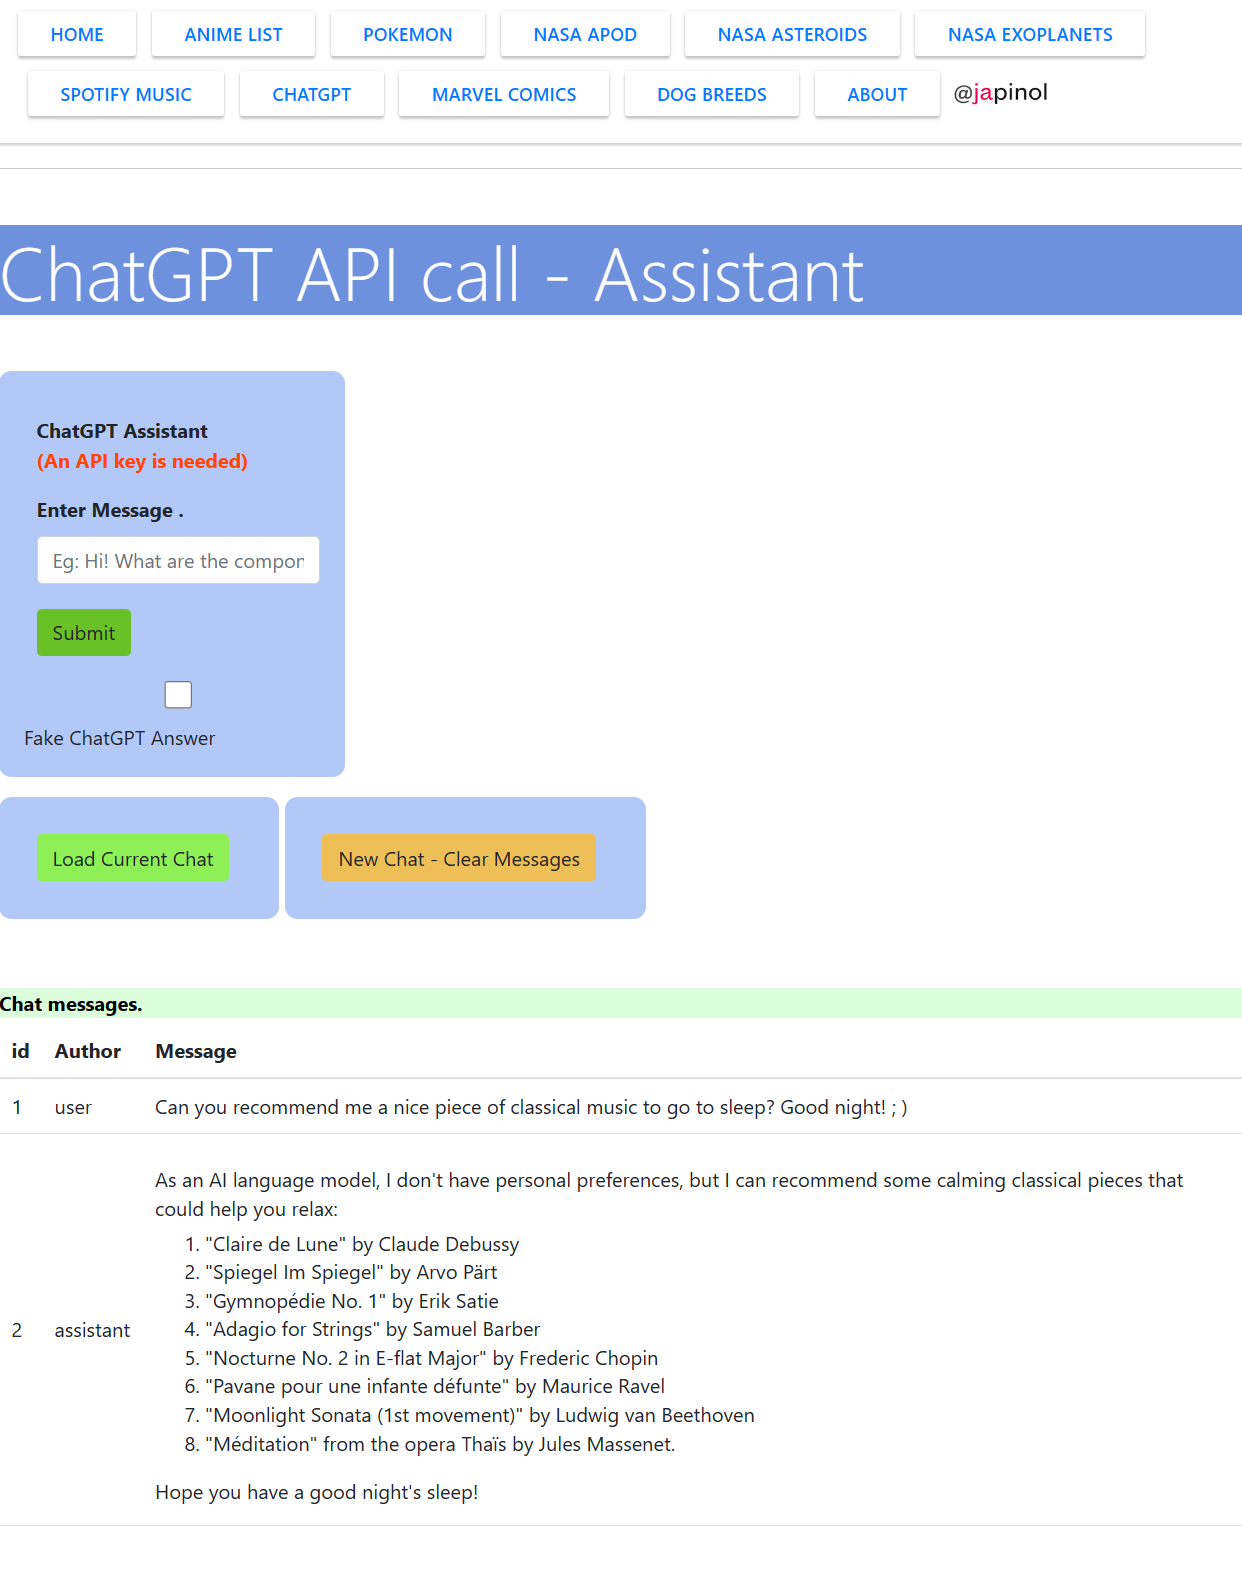
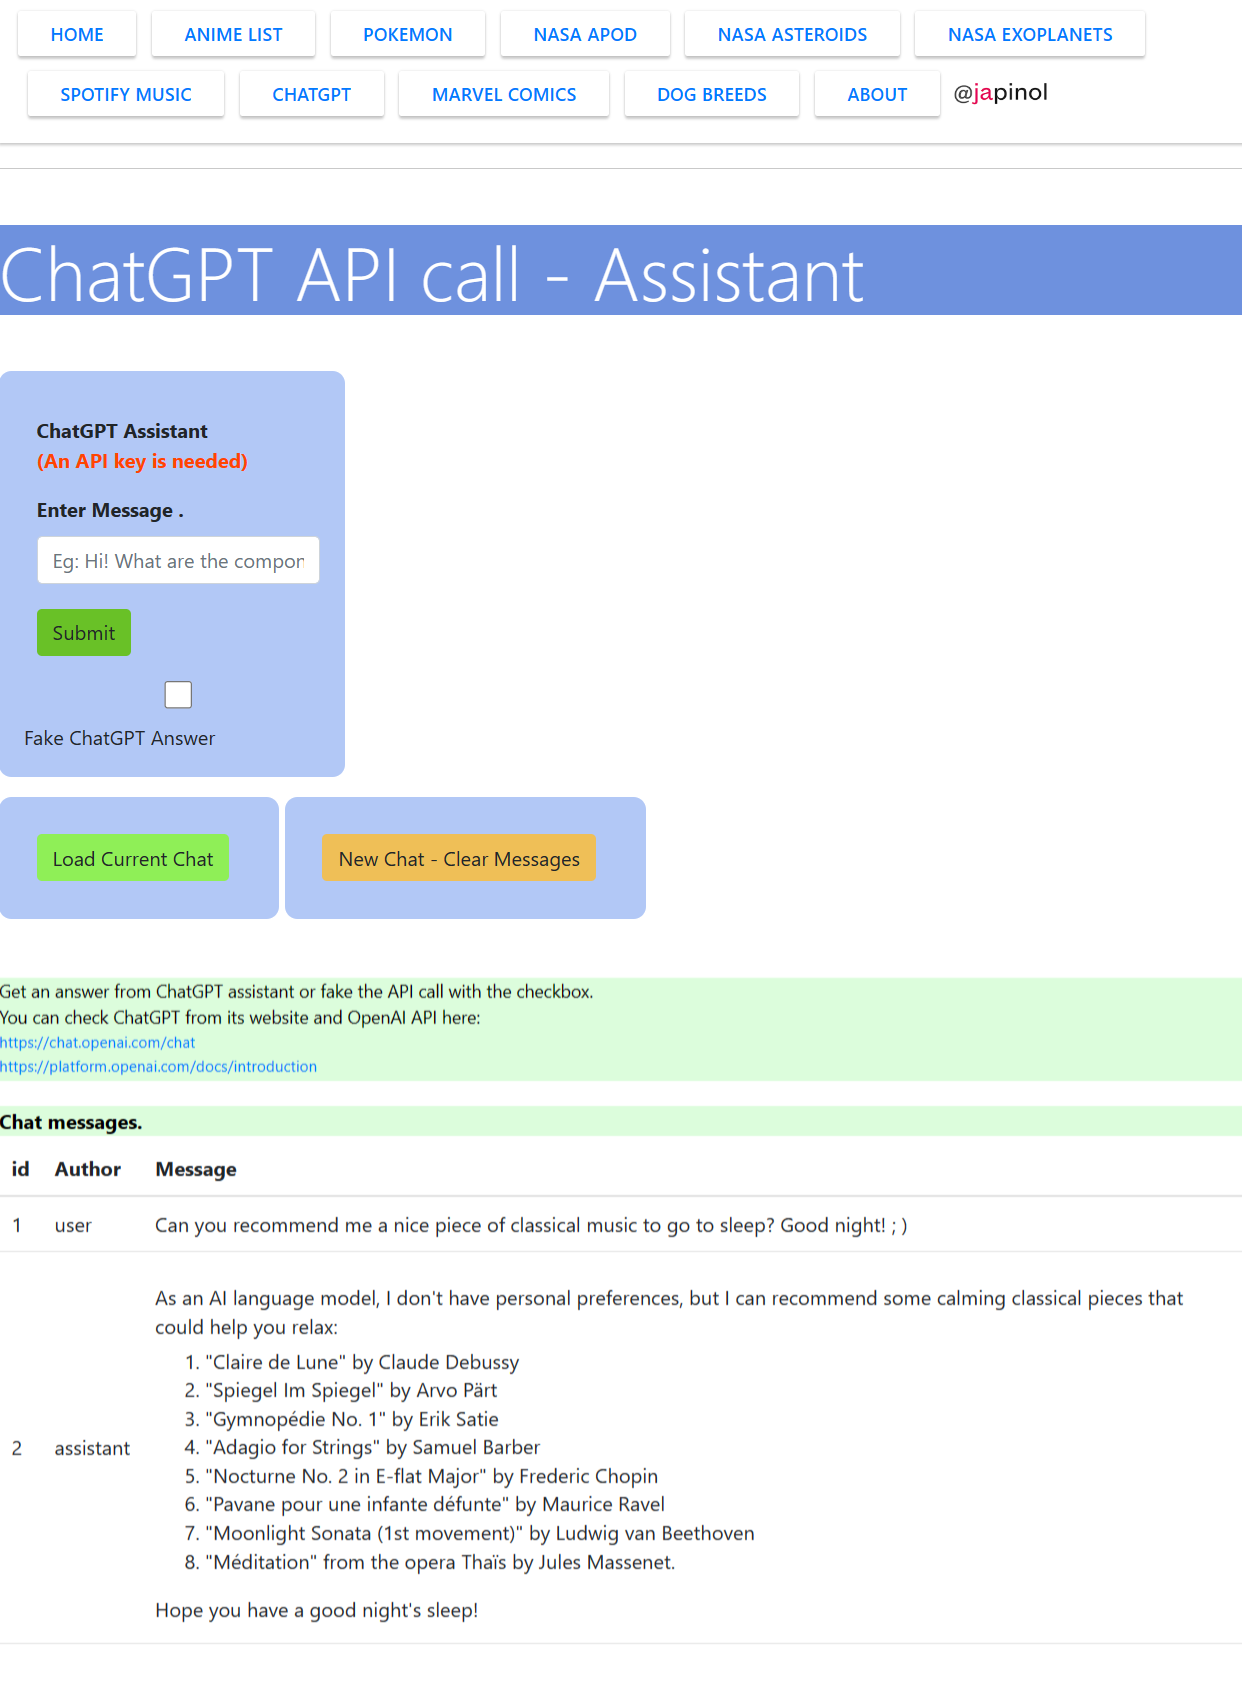
[IMP] chatgpt: Improvements.

Changed region(s): [[0.0, 0.1234, 1.0, 0.9565], [0.0, 0.0, 0.9179, 0.0926], [0.0306, 0.8331, 0.1224, 0.864]]

diff --git a/app/templates/chatgpt.html b/app/templates/chatgpt.html
@@ -41,8 +41,15 @@
     <div class="body">
         <br>
         <div class="chatgpt-list-api-call-info">
+            <p>Get an answer from ChatGPT assistant or fake the API call with the checkbox. <br>
+               You can check ChatGPT from its website and OpenAI API here:<br>
+                <span class="body_small"><a href="https://chat.openai.com/chat">https://chat.openai.com/chat</a> </span> <br>
+                <span class="body_small"><a href="https://platform.openai.com/docs/introduction">https://platform.openai.com/docs/introduction</a> </span>
             <p>
-                <strong>Chat messages.</strong> <br>
+        </div>
+        <div class="chatgpt-list-api-call-info">
+            <p>
+                <strong>Chat messages</strong> <br>
             </p>
         </div>
 

diff --git a/app/chatgpt/views/chatgpt_view.py b/app/chatgpt/views/chatgpt_view.py
@@ -10,45 +10,63 @@ logging.basicConfig(format='%(asctime)s %(levelname)s %(name)s: %(message)s')
 logger = logging.getLogger(__name__)
 logger.setLevel(logging.DEBUG)
 
+REQUEST_FORM_ID_MAPPINGS = {
+    'chatgpt_msg': 'chatgpt_form_conversation',
+    'chatgpt_reload_messages': 'chatgpt_form_reload_conversation',
+    'chatgpt_new_chat': 'chatgpt_form_new_conversation',
+    }
+FAKE_ANSWER_MSG = "Fake Answer: I don't know. Really. Please, forgive me already!"
+
 
 @app.route('/chatgpt', methods=['GET', 'POST'])
 def chatgpt():
-    messages = {}
-    form_executed = None
-    if request.method == 'POST' and 'chatgpt_msg' in request.form:
-        input_text = request.form.get('chatgpt_msg')
-        is_fake_msg = 'Fake ChatGPT Answer' in request.form.getlist('flags')
+    form_names = list(REQUEST_FORM_FUNCT_MAPPINGS.keys() & request.form.keys())
+    if request.method != 'POST' or not form_names:
+        return render_template('chatgpt.html', messages={}, form_executed=None)
 
-        conversation_int = ConversationInteractor.reuse_or_create_conversation()
-        conversation_int.add_message('user', input_text)
-
-        if is_fake_msg:
-            response_text = "Fake Answer: I don't know. Really. Please, forgive me already!"
-        else:
-            response_text_raw = conversation_int.get_chatgpt_answer(input_text)
-            response_text = markdown.markdown(response_text_raw)
-
-        conversation_int.add_message('assistant', response_text)
-        messages.update({
-            'messages': conversation_int.get_messages(),
-            'error': None,
-            })
-        form_executed = 'chatgpt_form_conversation'
-
-    if request.method == 'POST' and 'chatgpt_reload_messages' in request.form:
-        logger.info("Reload conversation")
-
-        conversation_int = ConversationInteractor.reuse_or_create_conversation()
-        messages.update({
-            'messages': conversation_int.get_messages(),
-            'error': None,
-            })
-        form_executed = 'chatgpt_form_reload_conversation'
-
-    if request.method == 'POST' and 'chatgpt_new_chat' in request.form:
-        logger.info("New conversation")
-        conversation_int = ConversationInteractor.reuse_or_create_conversation()
-        conversation_int.reset()
-        form_executed = 'chatgpt_form_new_conversation'
-
+    form_name = form_names[0]
+    conversation_int = ConversationInteractor.reuse_or_create_conversation()
+    messages = REQUEST_FORM_FUNCT_MAPPINGS[form_name](conversation_int)
+    form_executed = REQUEST_FORM_ID_MAPPINGS[form_name]
     return render_template('chatgpt.html', messages=messages, form_executed=form_executed)
+
+
+def process_form_chatgpt_msg(conversation_int):
+    logger.info("Process user input")
+    input_text = request.form.get('chatgpt_msg')
+    is_fake_msg = 'Fake ChatGPT Answer' in request.form.getlist('flags')
+
+    conversation_int.add_message('user', input_text)
+    if is_fake_msg:
+        logger.info("Generate fake answer")
+        response_text = FAKE_ANSWER_MSG
+    else:
+        response_text_raw = conversation_int.get_chatgpt_answer(input_text)
+        response_text = markdown.markdown(response_text_raw)
+
+    conversation_int.add_message('assistant', response_text)
+    return {
+        'messages': conversation_int.get_messages(),
+        'error': None,
+        }
+
+
+def process_form_chatgpt_reload_messages(conversation_int):
+    logger.info("Reload conversation")
+    return {
+        'messages': conversation_int.get_messages(),
+        'error': None,
+        }
+
+
+def process_form_chatgpt_new_chat(conversation_int):
+    logger.info("New conversation")
+    conversation_int.reset()
+    return {}
+
+
+REQUEST_FORM_FUNCT_MAPPINGS = {
+    'chatgpt_msg': process_form_chatgpt_msg,
+    'chatgpt_reload_messages': process_form_chatgpt_reload_messages,
+    'chatgpt_new_chat': process_form_chatgpt_new_chat,
+    }

diff --git a/README.md b/README.md
@@ -131,7 +131,7 @@ This is a very simple Flask Application example that calls some APIs.
 <img src="screenshots/screenshot4.png"> <br/> <br/>
 <img src="screenshots/screenshot5.png"> <br/> <br/>
 <img src="screenshots/screenshot6.png"> <br/> <br/>
-<img src="screenshots/screenshot7.png"> <br/>
+<img src="screenshots/screenshot7.png"> <br/> <br/>
 
 
 **To make this web server app to work in your local environment**
